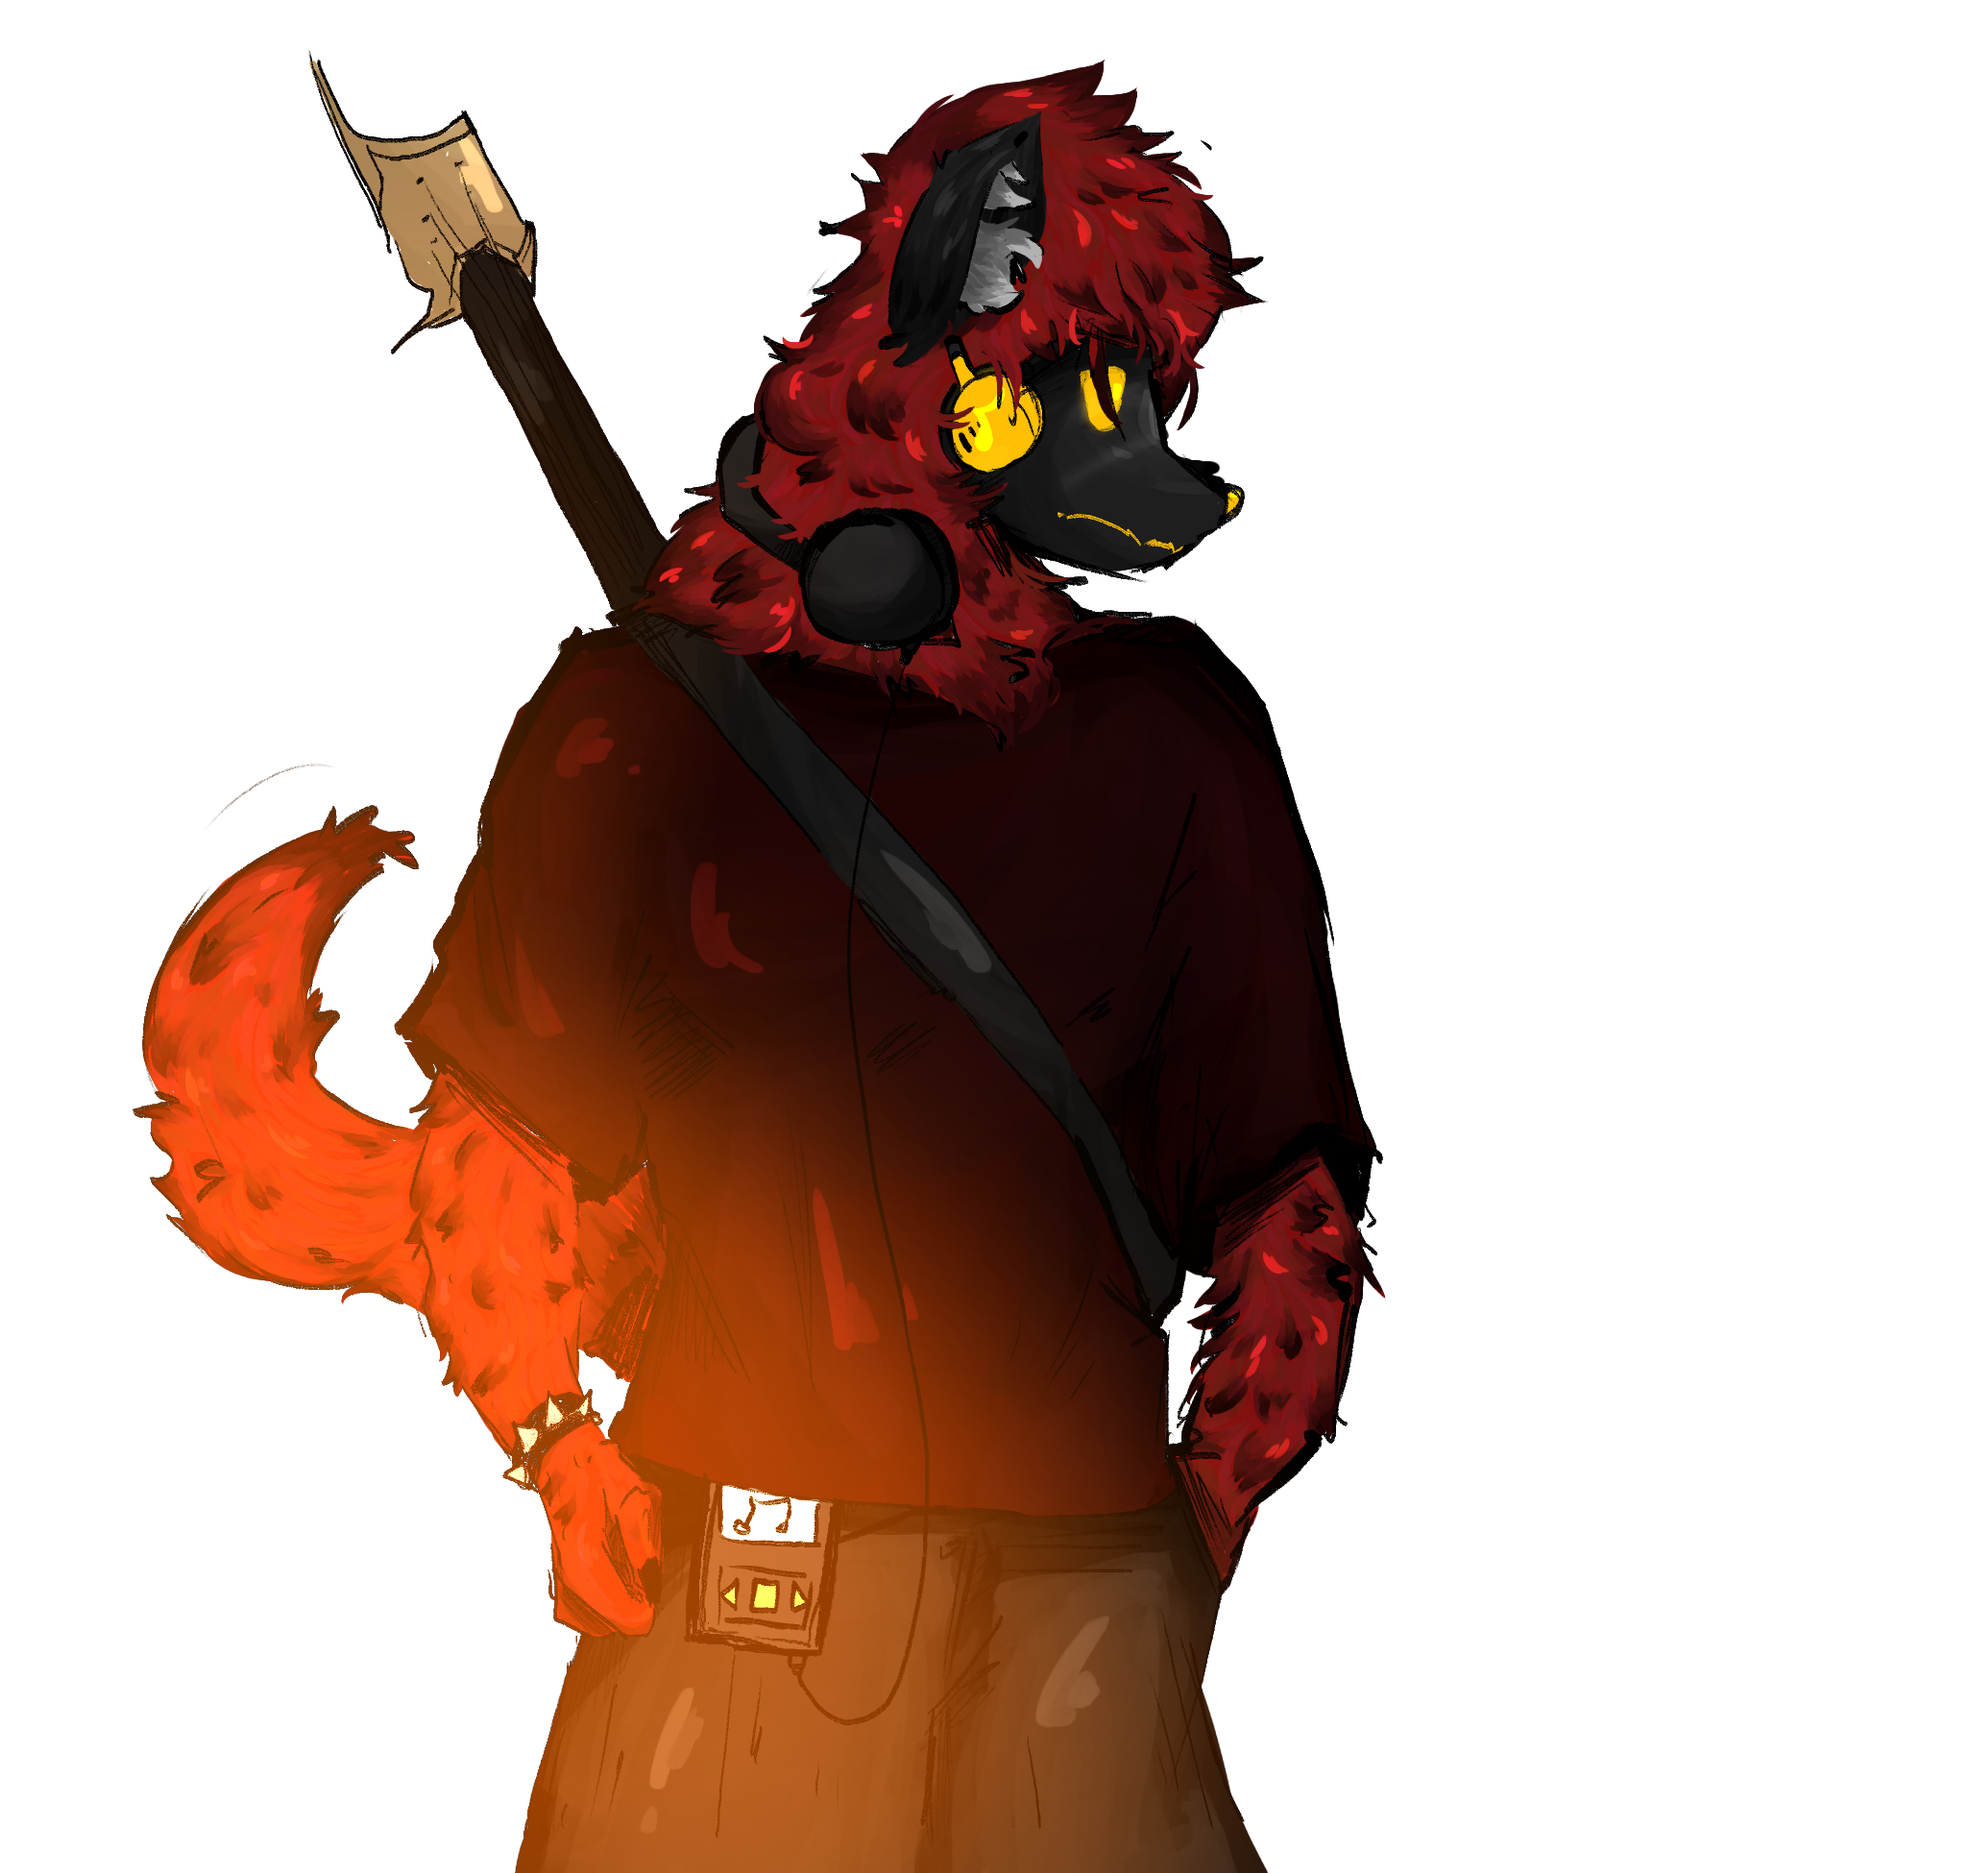
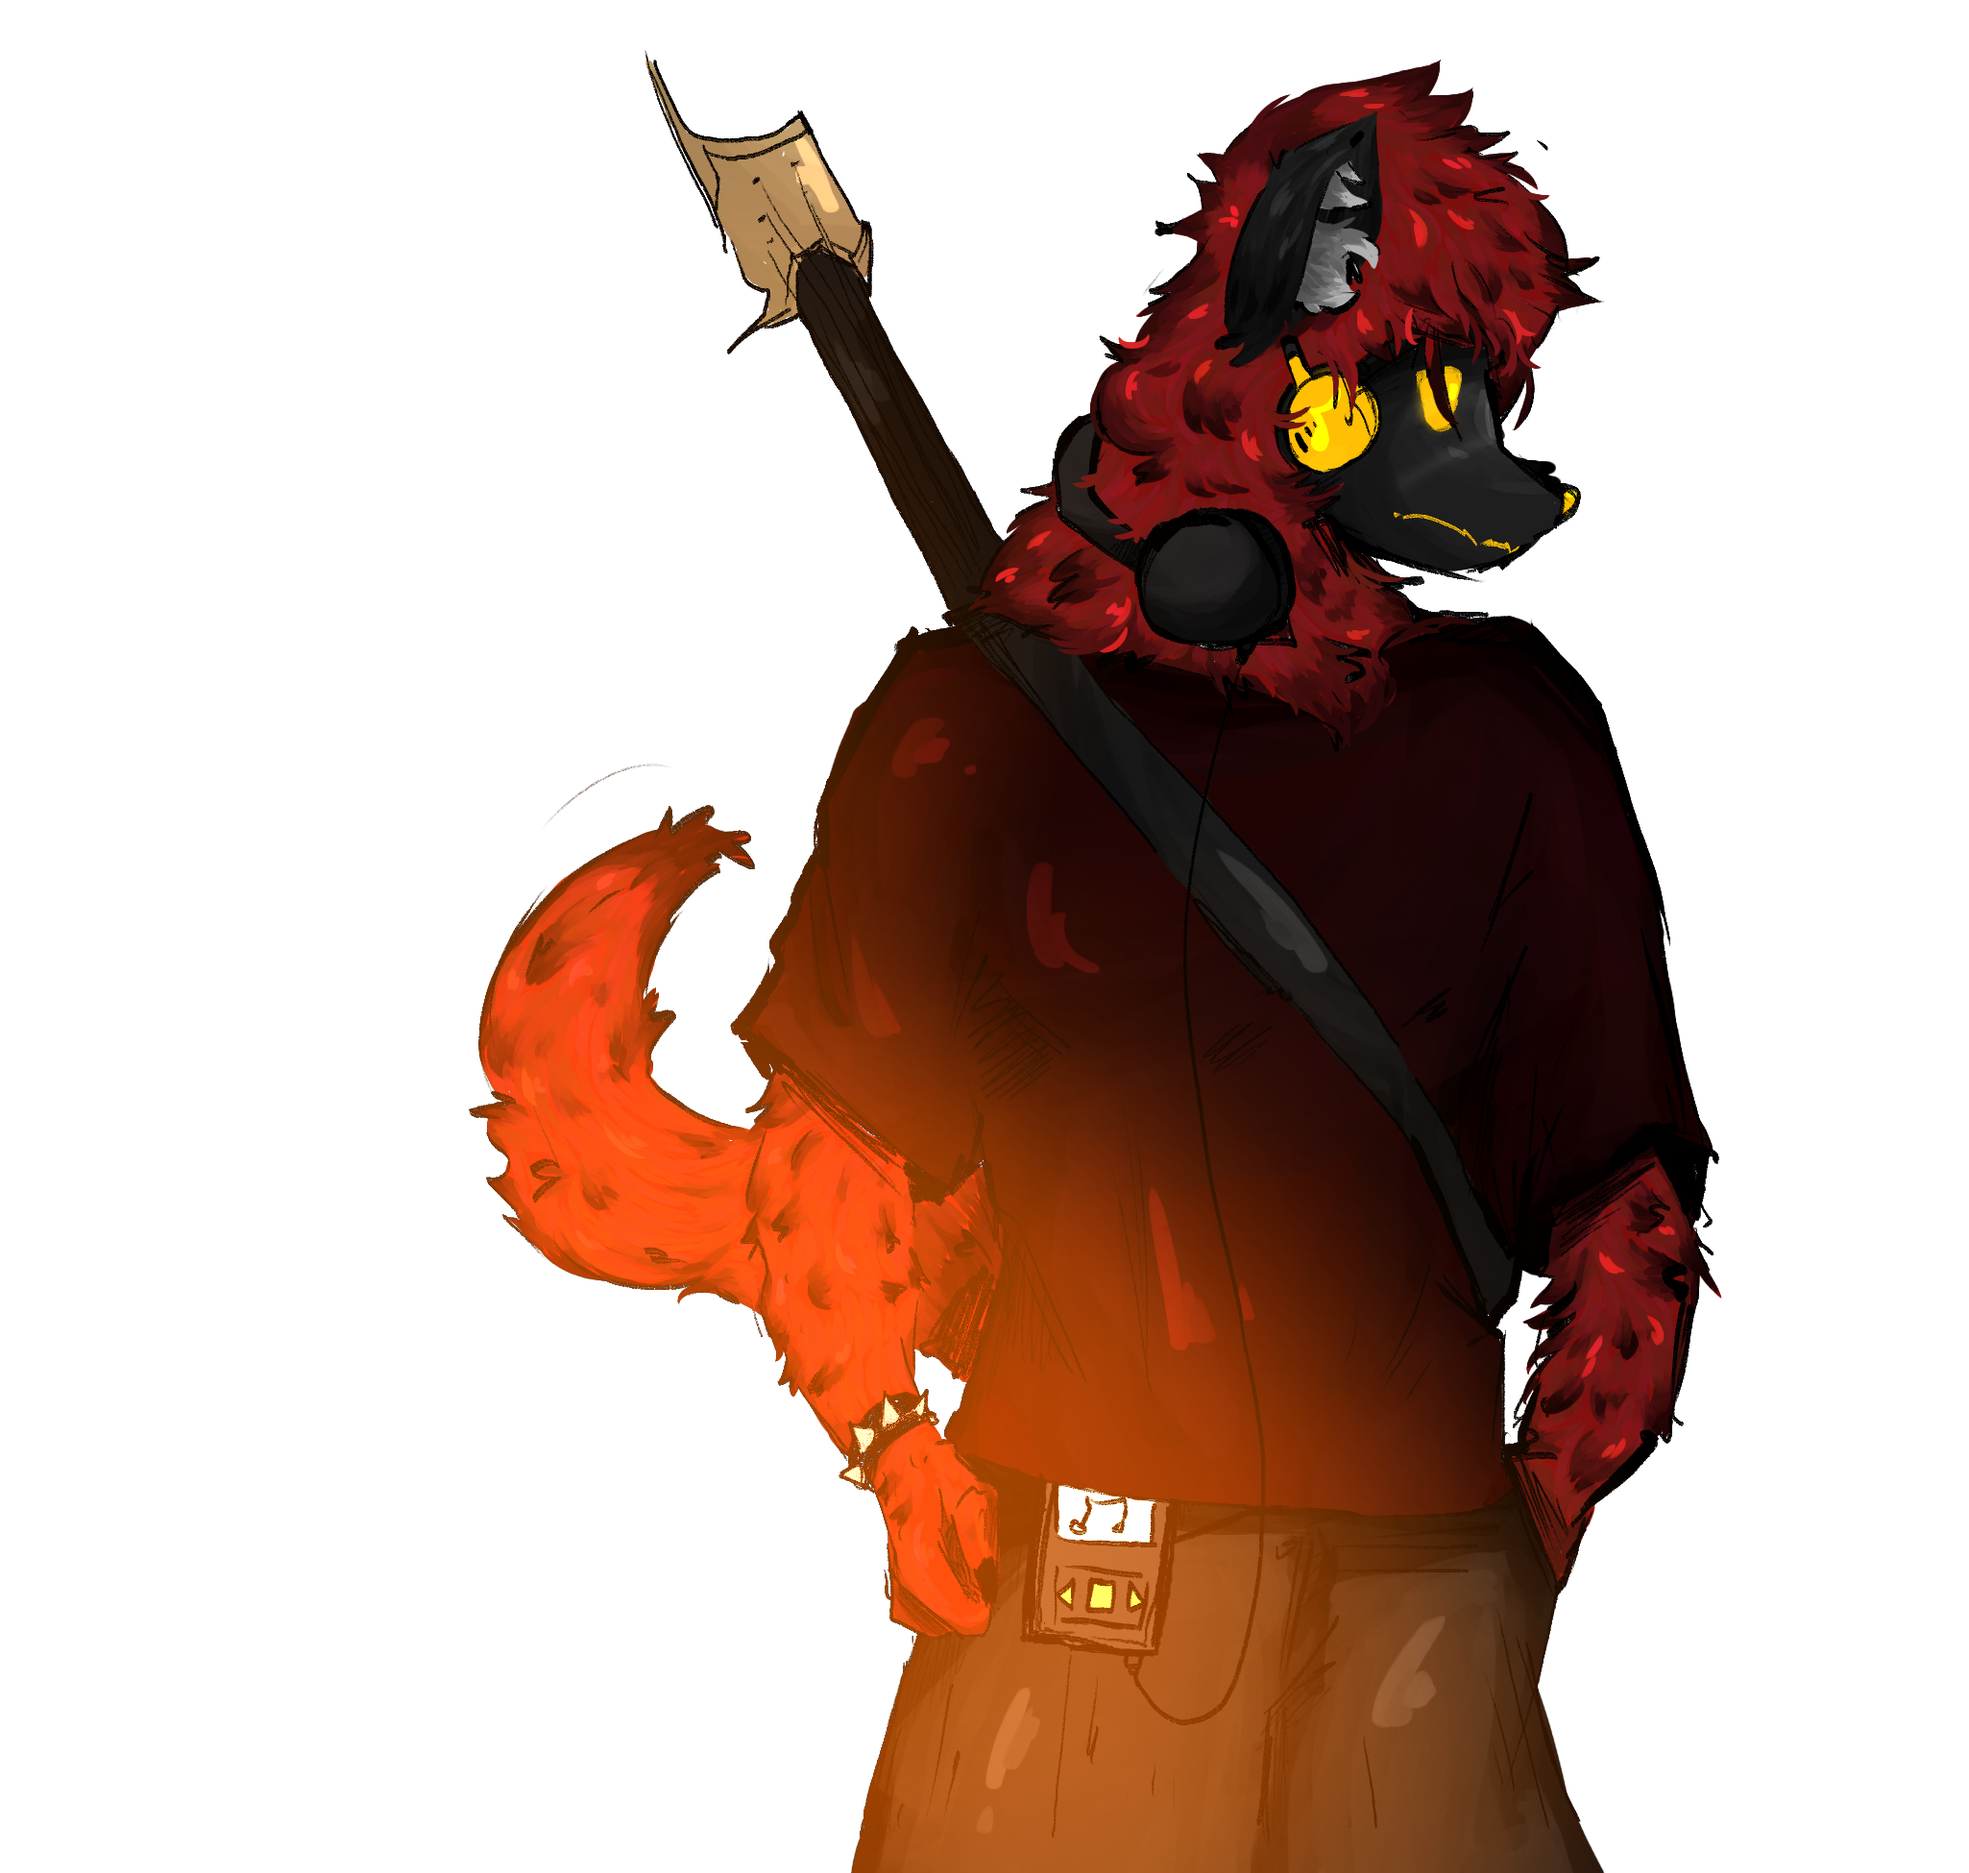
Ajustar enquadramento de Blinko deslocando ilustracao para a direita v1.7.8

diff --git a/mesa.html b/mesa.html
@@ -11,9 +11,9 @@
   <link rel="preconnect" href="https://fonts.googleapis.com">
   <link rel="preconnect" href="https://fonts.gstatic.com" crossorigin>
   <link href="https://fonts.googleapis.com/css2?family=Cinzel:wght@600;700;800;900&family=Merriweather:ital,wght@0,300;0,400;0,700;1,300&family=Playfair+Display:ital,wght@0,600;0,700;0,800;1,400&family=Press+Start+2P&family=VT323&display=swap" rel="stylesheet">
-  <link rel="stylesheet" href="css/variables.css?v=1.7.7">
-  <link rel="stylesheet" href="css/components.css?v=1.7.7">
-  <link rel="stylesheet" href="css/mesa.css?v=1.7.7">
+  <link rel="stylesheet" href="css/variables.css?v=1.7.8">
+  <link rel="stylesheet" href="css/components.css?v=1.7.8">
+  <link rel="stylesheet" href="css/mesa.css?v=1.7.8">
   <script src="https://cdn.jsdelivr.net/npm/@supabase/supabase-js@2"></script>
 </head>
 <body class="mesa-body">
@@ -1121,11 +1121,11 @@ Ao empurrar a porta, o feixe de luz da lanterna revela o caos. O quarto é um ab
       <!-- Biblioteca Marked.js para renderização de Markdown -->
     <script src="https://cdn.jsdelivr.net/npm/marked/marked.min.js"></script>
 
-<script src="js/campaign-data.js?v=1.7.7"></script>
+<script src="js/campaign-data.js?v=1.7.8"></script>
 
-<script src="js/mesa.js?v=1.7.7"></script>
+<script src="js/mesa.js?v=1.7.8"></script>
   <!-- Versao da Mesa -->
-  <div id="mesa-version-badge" class="mesa-version">v1.7.7</div>
+  <div id="mesa-version-badge" class="mesa-version">v1.7.8</div>
 
   <!-- GAVETA LATERAL: DISPOSITIVOS DA CAMPANHA (EXCLUSIVO DO MESTRE) -->
   <div id="dispositivos-drawer-backdrop" class="dispositivos-drawer-backdrop" onclick="MesaDispositivos.closeDrawer()"></div>

diff --git a/js/mesa.js b/js/mesa.js
@@ -5,7 +5,7 @@
    - State, 4-Char Tokens, Mobile UI & Real-Time Live Editing (Zero Emojis, In-Place DOM Updates)
    ============================================================ */
 
-const MESA_VERSION = 'v1.7.7';
+const MESA_VERSION = 'v1.7.8';
 
 // SVG CONSTANTS (Sem Emojis)
 const SVG_ICONS = {
@@ -1200,7 +1200,7 @@ const MesaApp = {
       altura: '1,75m',
       raca: 'Animalesco',
       arquetipo: 'Teimoso',
-      imagem: 'assets/blinko.png',
+      imagem: 'assets/blinko.png?v=2',
       avatar: 'assets/blinko_avatar.png',
       hp: 17, hpMax: 17,
       pe: 10, peMax: 10,
@@ -1359,7 +1359,7 @@ const MesaApp = {
           }
 
           if (p.token === 'F9C5' || p.slot === 8) {
-            p.imagem = 'assets/blinko.png';
+            p.imagem = 'assets/blinko.png?v=2';
             p.avatar = 'assets/blinko_avatar.png';
           }
 
@@ -1492,7 +1492,7 @@ const MesaApp = {
       if (!this.state.players[7]) {
         this.state.players[7] = {
           id: 8, slot: 8, token: 'F9C5', nome: "Canneth 'Blinko' Biloxi", idade: '18 anos', altura: '1,75m', raca: 'Animalesco', arquetipo: 'Teimoso',
-          imagem: 'assets/blinko.png', avatar: 'assets/blinko_avatar.png',
+          imagem: 'assets/blinko.png?v=2', avatar: 'assets/blinko_avatar.png',
           hp: 17, hpMax: 17, pe: 10, peMax: 10, st: 0, stMax: 36, stressPoints: 0, stressPointsMax: 6,
           atributos: { 'Vigor': 'd12', 'Saúde': 'd8', 'Força': 'd4', 'Mente': 'd16' },
           bonus: [
